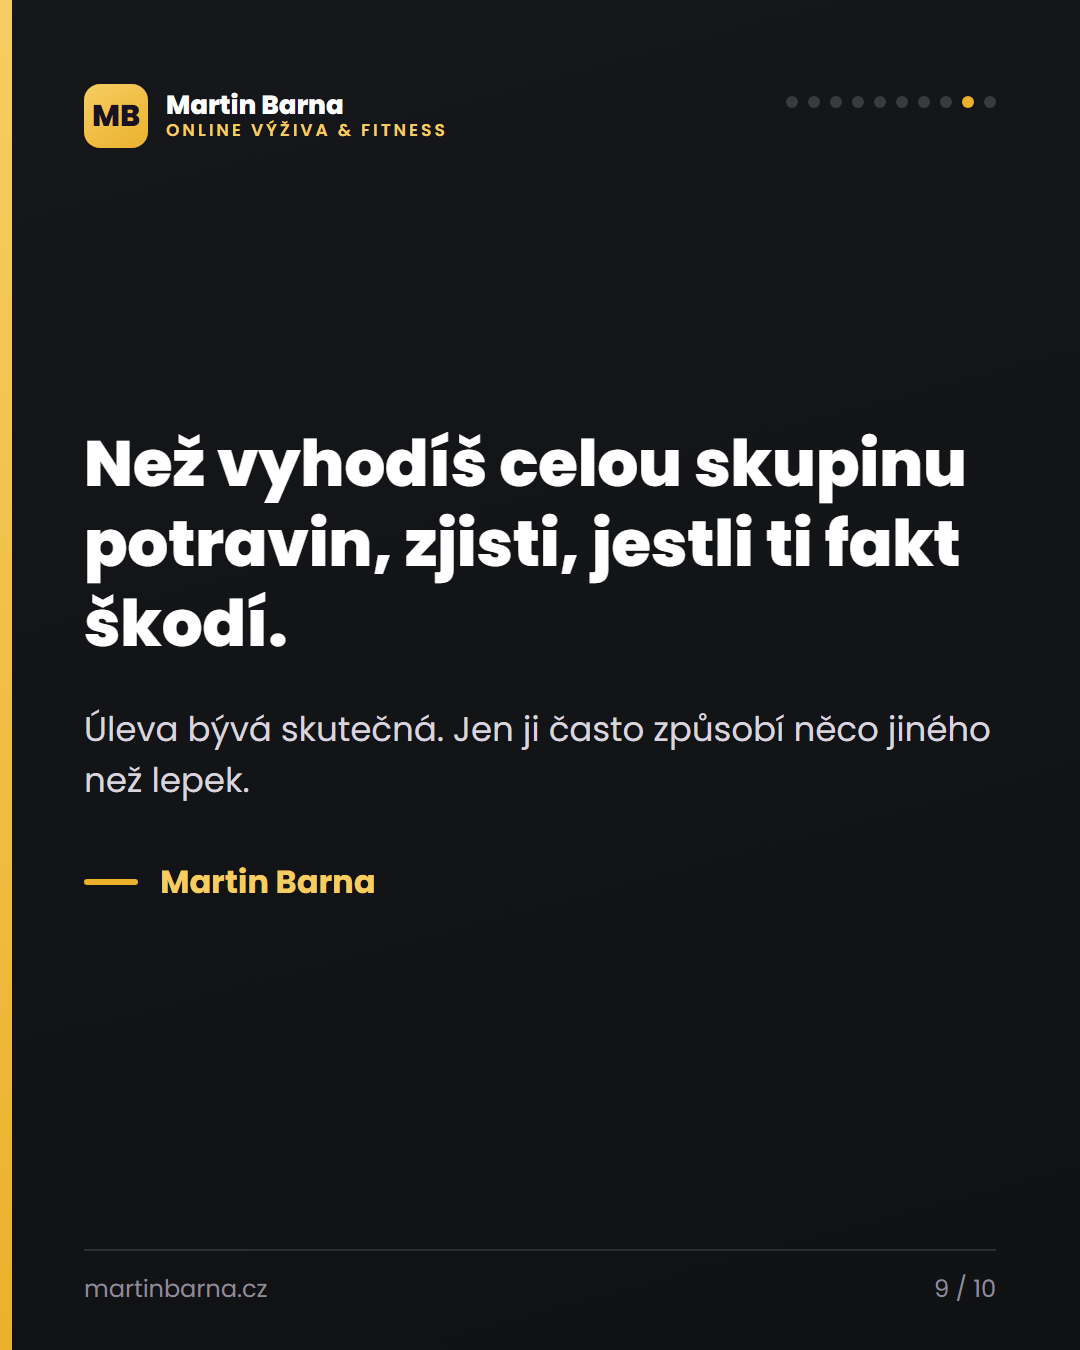
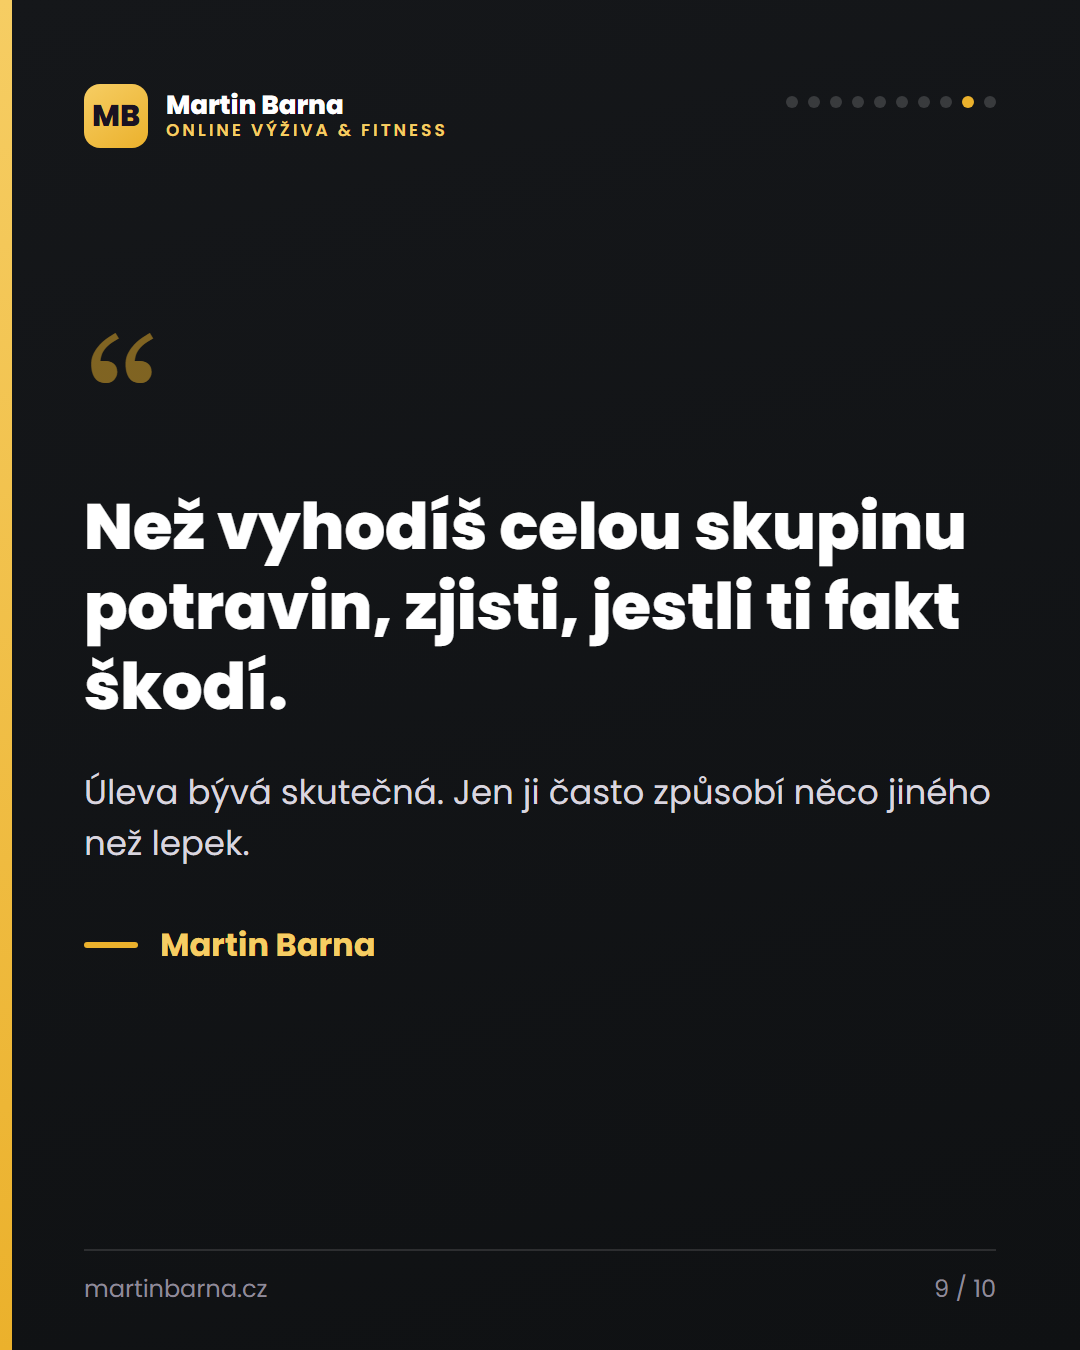
Infografiky: uvozovka nad citatem se VRACI + kofein slide 3
Martin 8. 8. potvrdil, ze ozdobny znak uvozovky nad citatem je ZAMERNY prvek
citatove sablony, ne chyba. Predchozi commit 4ce49328 ho odstranil z generatoru,
tohle to bere zpet: scripts/generate-carousel.js je zase bajt po bajtu shodny
se stavem pred 4ce49328 a lepek-nocebo/09.png taky.
=> Ostatnich 32 temat s citatovym slidem tim padem NENI potreba pregenerovat,
sablona se od jejich PNG nikdy nerozesla.

Kofein slide 3: "Pak merily skok do vysky" -> "Pak merili skok do vysky".
Skok merili vyzkumnici, ne ty zeny; sedi to k "jim rekli" o vetu driv.
Prvni veta "Nemohly" zustava, ta je o zenach.

Overeno: kontrola-preteceni 0 u obou temat, proti puvodnimu stavu 72808391
se lisi presne 5 slidu (lepek 2, 5, 6, 7 + kofein 3), slide 9 je zpatky
shodny na bajt, generator bez rozdilu. Zmenene slidy prohlednuty okem.

Changed region(s): [[0.0611, 0.3111, 0.9167, 0.7156], [0.0611, 0.2489, 0.1528, 0.28], [0.0917, 0.6844, 0.1222, 0.7156]]

diff --git a/scripts/generate-carousel.js b/scripts/generate-carousel.js
@@ -259,14 +259,10 @@ const KINDS = {
       ${patka(s, true, true)}
     </div>`;
   },
-  /** ⛔ Ozdobná uvozovka (Georgia, 190 px, zlatá) nad citátem se 8. 8. 2026 ODSTRANILA
-   *  na Martinův pokyn při revizi tématu `lepek-nocebo`. Znovu ji sem nevracej.
-   *  ⚠ Týká se to VŠECH témat s citátovým slidem, ne jen toho jednoho: je jich 33
-   *  z 38 a jejich PNG v repu je proto potřeba přegenerovat, jinak se obrázek
-   *  rozejde se šablonou. */
   quote(s, i, n) {
     return `<div class="wrap">${BRAND}${dots(i, n)}
       <div style="flex:1;display:flex;flex-direction:column;justify-content:center;padding-bottom:100px">
+        <div style="font-family:Georgia,serif;font-size:190px;line-height:.5;color:${GOLD};opacity:.5;margin-bottom:30px">“</div>
         <div style="font-weight:800;font-size:64px;line-height:1.25;color:#fff">${s.text}</div>
         ${s.note ? `<div class="body" style="margin-top:40px;font-size:34px">${s.note}</div>` : ''}
         <div style="margin-top:52px;display:flex;align-items:center;gap:22px">
